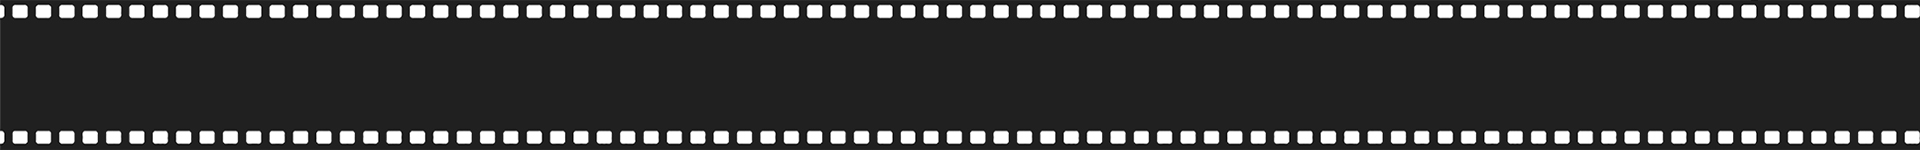
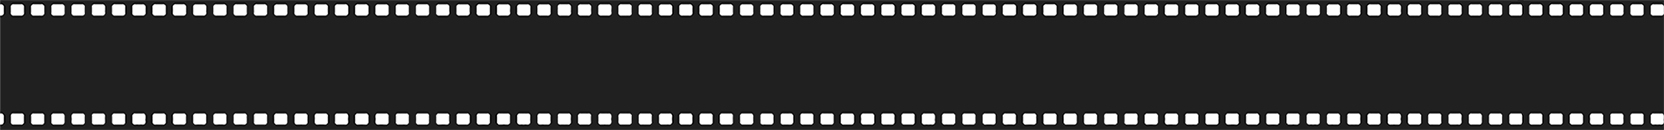
cinta cinco

diff --git a/static/sass/_inners.scss b/static/sass/_inners.scss
@@ -84,6 +84,7 @@
 .backgrounds__bottom {
     background-image: url("/static/images/marcas/cinta-cine-farsali-dos.jpg");
     width: 100%;
+    height: 130px;
     //padding: 0 2rem;
 
     .backgrounds__bottom--title {

diff --git a/static/css/estilos.css b/static/css/estilos.css
@@ -1169,6 +1169,7 @@ p {
 .backgrounds__bottom {
   background-image: url("/static/images/marcas/cinta-cine-farsali-dos.jpg");
   width: 100%;
+  height: 130px;
   /* images */
   /* buttons */
 }
